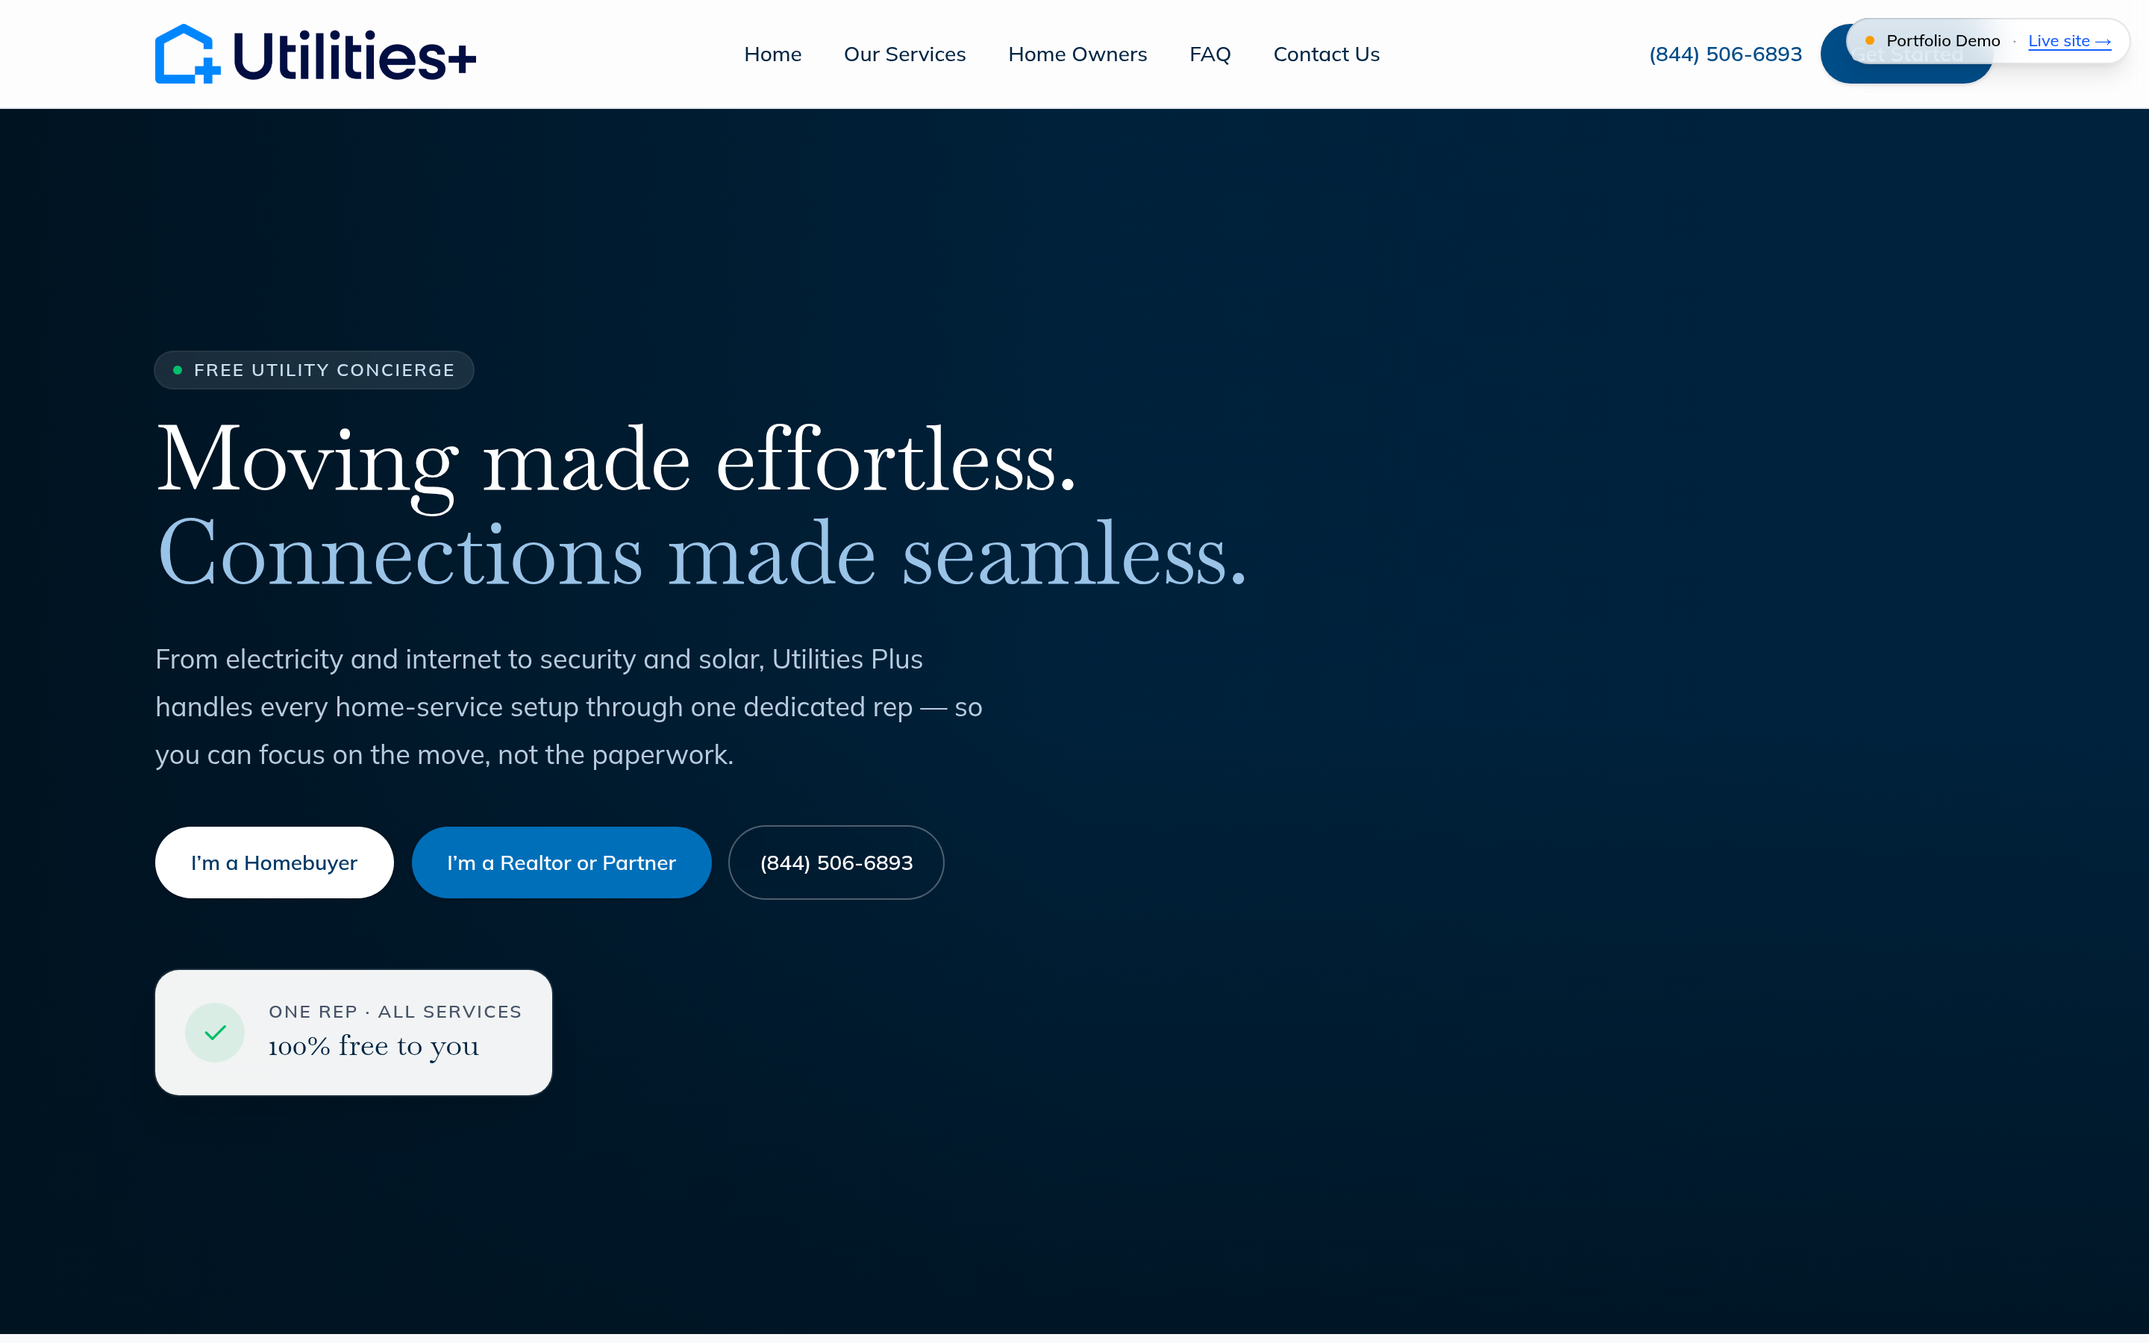
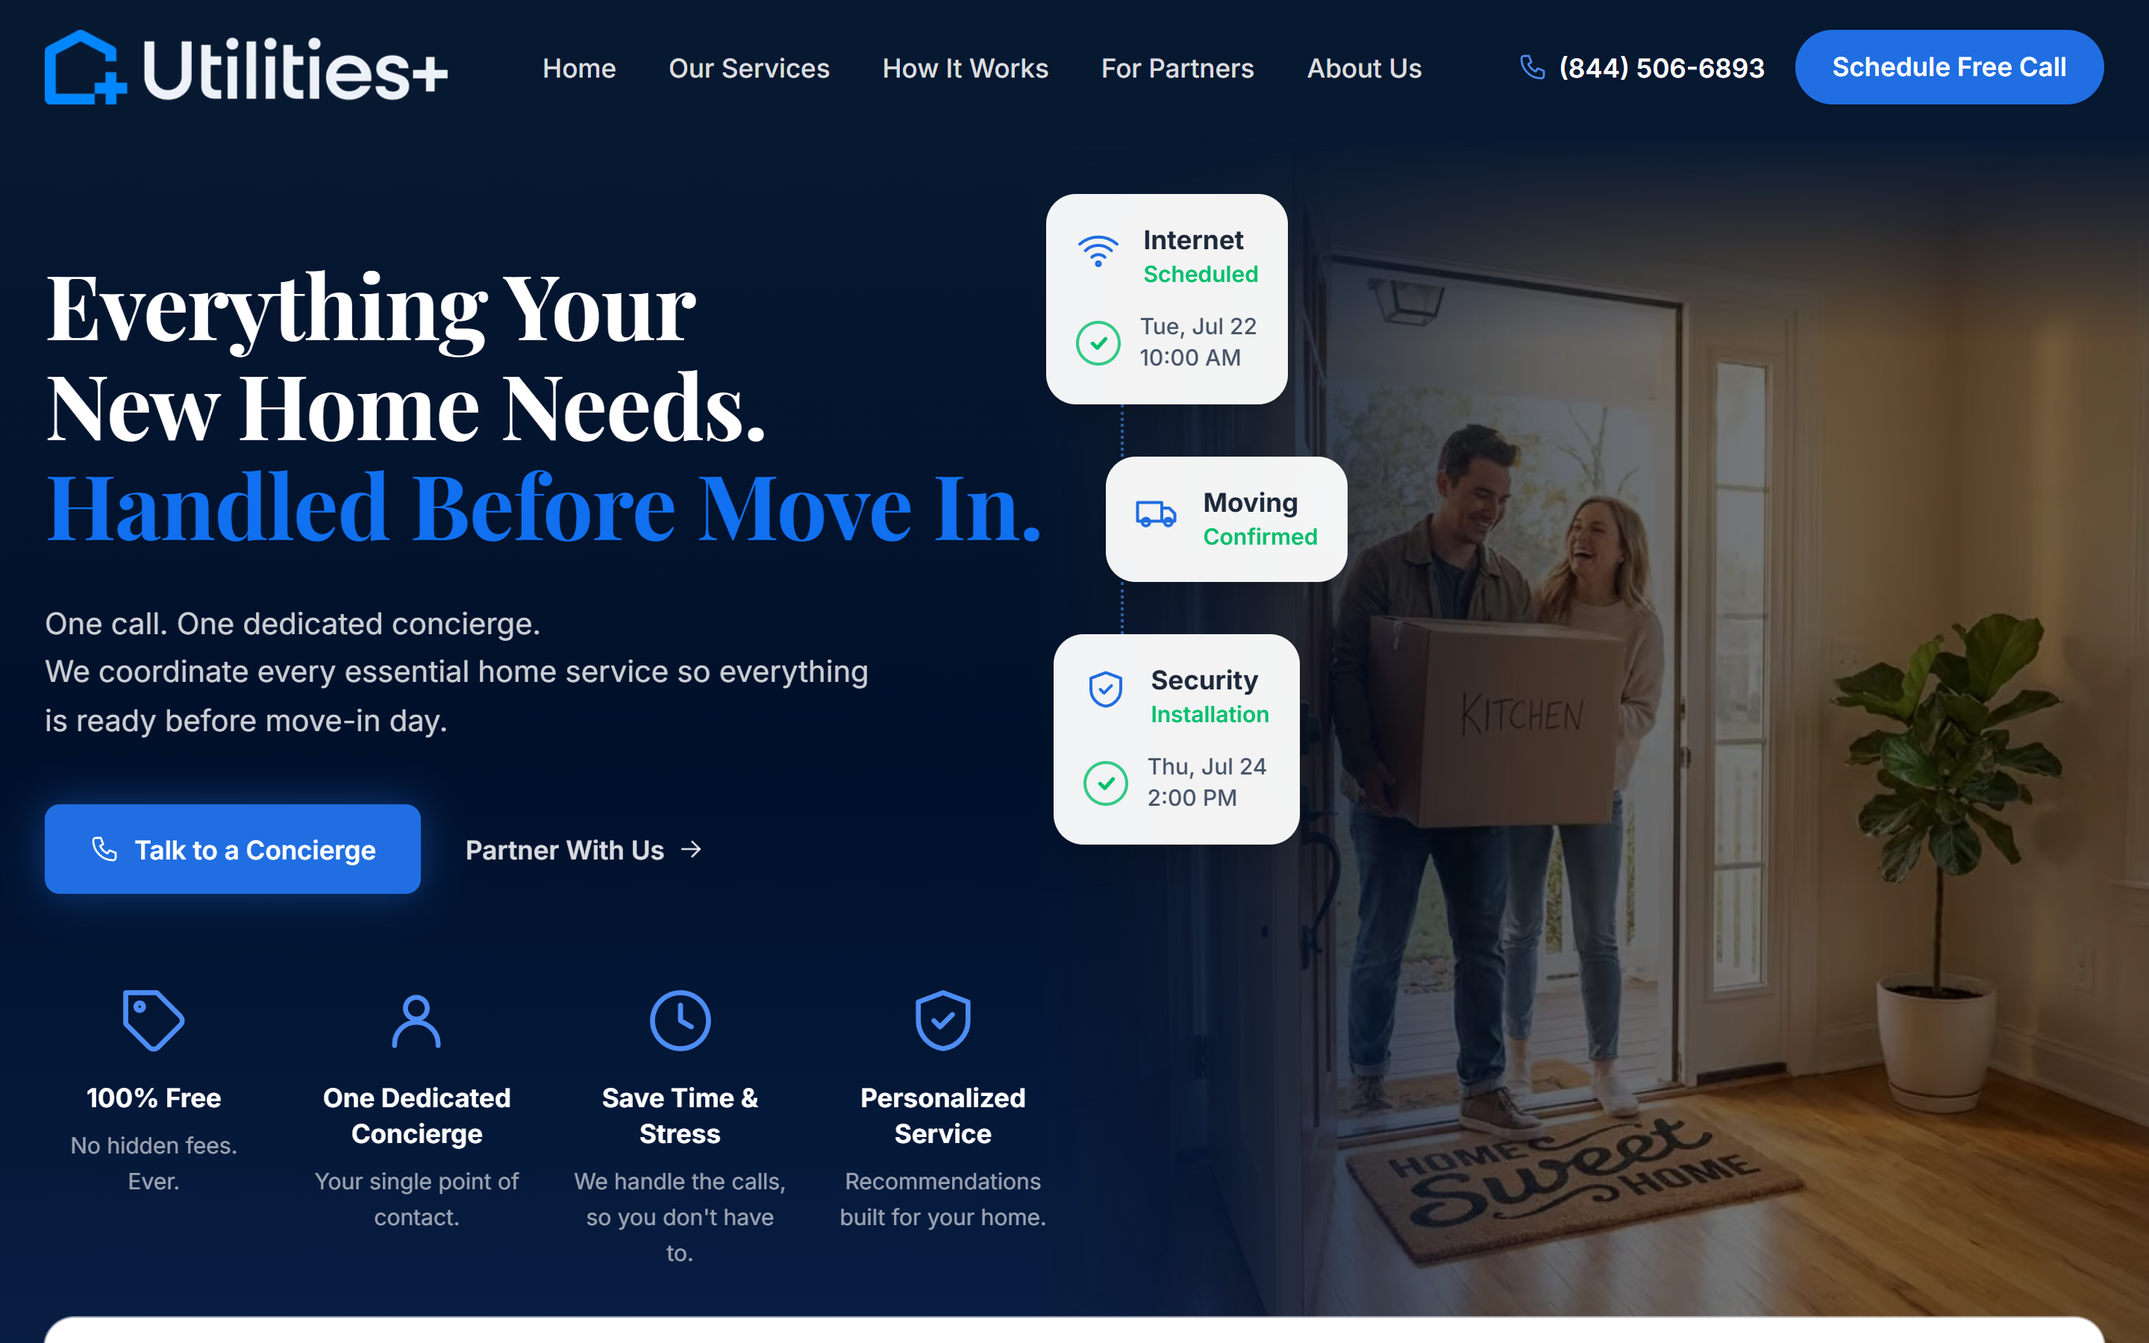
Utilities Plus points at the live site; nautiDAWGS is a client
Utilities Plus had moved past its frozen showcase and the entry had gone
stale in a way that mattered: it described a Pexels hero video that no
longer exists, a typography stack that was replaced, a service list with
solar and waste instead of water filtration and moving, and 22 WordPress
routes that are now a different set. The showcase still serves the old
"Moving Made Effortless" headline; the live site leads with "Handled
Before Move In".

Rewritten against the live site and the repo rather than patched. The
substantive change is what the case study never mentioned: it now has a
full control panel, so the client edits page copy, FAQs, providers and
media, works leads in an inbox, and reads their own analytics. That is
the point of the project and it was missing from the write-up.

nautiDAWGS moves from "In Progress" to "Client" — its domain cutover
completed, so the outcome no longer says it is pending.

Thumbnail recaptured from the live site and moved off Microlink onto the
guarded capture path, asserting the current headline so a shot of the
superseded showcase design cannot ship. Utilities Plus was also missing
from llms.txt entirely.

diff --git a/lib/portfolio.ts b/lib/portfolio.ts
@@ -361,11 +361,11 @@ export const portfolio: PortfolioItem[] = [
   {
     slug: "utilities-plus",
     name: "Utilities Plus",
-    url: "https://utilities-plus-showcase.vercel.app",
+    url: "https://utilities-plus.com",
     tagline: "Free utility concierge — Houston, TX",
     description:
-      "Full WordPress → Next.js 16 rebuild for a utility concierge service that sets up electricity, internet, security, gas, water, solar, waste, home warranty, and insurance referrals through one dedicated rep. Pexels hero video, deep-navy brand theme, custom SVG icon system across services and partner-types, FAQ with FAQPage schema, Google Maps embed on contact, and the full Mako security + AI-search baseline. Shown as shipped on a frozen showcase fork.",
-    tags: ["Next.js 16", "Tailwind v4", "WP Migration", "Local SEO", "FAQ Schema"],
+      "A WordPress rebuild that kept going. Utilities Plus coordinates electricity, internet and TV, smart security, gas and water, water filtration, moving services, home warranty and insurance referrals for people about to move house — one rep, no charge to the homeowner. It now runs on its own control panel: the office edits page copy, FAQs, providers and media, works the leads, and reads its own traffic without touching a developer.",
+    tags: ["Next.js", "Drizzle", "CMS + control panel", "WP Migration", "Local SEO"],
     status: "Client",
     year: "2026",
     accent: "blue",
@@ -373,57 +373,58 @@ export const portfolio: PortfolioItem[] = [
     tier: "client-build",
     caseStudy: {
       oneLiner:
-        "Full WordPress → Next.js 16 rebuild for a Houston utility concierge — Pexels hero video, deep-navy brand theme, custom icon system, FAQPage schema, Google Maps on contact, and the complete Mako security + AI-search baseline.",
+        "A Houston utility concierge moved off WordPress and onto a site its own office runs — page copy, FAQs, providers, media, leads and traffic all editable in-house, with no developer in the loop.",
       client: "Utilities Plus · Houston, TX",
-      role: "Design + full-stack build + migration",
-      timeline: "2026 · client build, approved",
+      role: "Design + full-stack build + migration + control panel",
+      timeline: "2026 · live",
       stack: [
-        "Next.js 16",
+        "Next.js",
         "React 19",
         "Tailwind v4",
+        "Drizzle ORM",
+        "Postgres",
+        "iron-session + TOTP",
+        "Turnstile",
         "Vercel",
-        "Pexels (hero video)",
-        "Google Maps Embed",
-        "JSON-LD (Organization, WebSite, BlogPosting, FAQPage)",
       ],
-      viewUrl: "https://utilities-plus-showcase.vercel.app",
-      viewLabel: "View frozen showcase",
+      viewUrl: "https://utilities-plus.com",
+      viewLabel: "Visit the live site",
       problem:
-        "Utilities Plus is a free utility concierge service in Houston that sets up electricity, internet, security, gas, water, solar, waste, home warranty, and insurance referrals for homebuyers and real-estate professionals through one dedicated rep. Their old site was a stock WordPress / Astra / Elementor build — slow, generic, and indistinguishable from a thousand other home-services templates. The brand was meant to feel premium and trust-first; the site read like a brochure.\n\nThe brief: a custom rebuild that captures the white-glove positioning, makes the eight services feel like one cohesive offering instead of a bullet list, and gives both audiences (homebuyers and real-estate partners) clear paths through the site. AI-search ready. Same security baseline we ship on every Mako property.",
+        "Utilities Plus sets up a household's services before move-in day — electricity, internet and TV, smart security, gas and water, water filtration, moving services, home warranty, insurance referrals — through one rep, at no charge to the homeowner, earning from the providers instead. The old site was a stock WordPress build on Astra and Elementor: slow, generic, and indistinguishable from a thousand other home-services templates.\n\nTwo audiences use the site for opposite reasons. A homeowner arrives stressed and three weeks from a move, wanting to know this is real and free. A real-estate agent arrives evaluating whether to hand clients over, wanting to know it will not embarrass them. One page cannot serve both, and a bullet list of eight services serves neither.\n\nThe rebuild solved that. What it did not solve was the reason people leave WordPress and then miss it: every copy change, every new FAQ, every provider logo came back to us.",
       approach:
-        "Next.js 16 + Tailwind v4 with the brand palette extracted from a sister-property reference and dialed in across a deep-navy ramp from brand-50 to brand-950. Mulish for body, Baskervville for display headlines, Frank Ruhl Libre as a serif accent for the editorial step-numerals — typography mix that reads premium without overshooting into luxury territory.\n\nThe homepage hero pairs a looping Pexels family-moving clip (3.95 MB at 720p, autoplay-muted-loop-playsinline, hidden under prefers-reduced-motion) with a brand-navy gradient overlay so the headline stays sharp. A custom SVG icon library covers all eight services plus the How-It-Works steps, the Why-Use-Us benefits grid, and the Who-We-Partner-With grid — every section has its own visual rhythm without leaning on a third-party icon font.\n\nThe FAQ converts the original blog topics into 29 grouped questions across 5 categories with FAQPage JSON-LD for Google rich results. Google Maps keyless embed on the contact page sits under the office hours, with CSP frame-src updated to allow Google's iframe domains. Full Mako security baseline: HSTS preload, X-Frame, X-Content nosniff, Referrer-Policy, locked Permissions-Policy, full CSP with frame-ancestors none. 301 redirects from every old WordPress slug.",
+        "The homepage answers the homeowner in one line — everything your new home needs, handled before move in — and then shows it rather than describing it. Floating beside the photograph are the cards a customer would actually receive: internet scheduled Tuesday at ten, movers confirmed, security installation Thursday at two. That is the product. Everything below it is the explanation.\n\nThe order is deliberate. How it works comes first, the eight services second, the partner pitch third, because a stressed homeowner three weeks from a move needs to understand the process before a menu means anything. \"100% free, no hidden fees, ever\" sits in the benefits row, since the first question anyone asks about a free concierge is where the catch is. Agents get their own route into the same operation instead of a paragraph aimed at somebody else. Inter for reading, Playfair Display for headlines, with the decorative face deliberately kept off the critical render path so the type it sets is not what people wait for.\n\nProvider names do the work that adjectives usually get asked to do. Reliant, Xfinity, Frontier, ADT, Vivint — a homeowner recognises the companies and stops wondering whether this is a real service. That is worth more than another sentence about being trusted.\n\nThen the site was given a back office. Page copy, FAQs, providers and media all moved into Postgres behind an admin panel, so the content on the public pages is data the client owns rather than markup only a developer can reach.",
       shipped: [
         {
-          title: "Full WordPress → Next.js 16 migration",
-          body: "Astra + Elementor source replaced with hand-written Next.js 16 components. 22 routes generating cleanly — every WP page rebuilt, every image migrated to public/images, every blog post re-stubbed with original copy.",
+          title: "Off WordPress, onto their own stack",
+          body: "The Astra and Elementor build replaced with hand-written components, every old slug redirected, and the full Mako baseline underneath: HSTS preload, a real CSP, locked Permissions-Policy, no server fingerprint, sitemap, robots and llms.txt.",
         },
         {
-          title: "Pexels family-moving hero video",
-          body: "3.95 MB 720p mp4 self-hosted, autoplay-muted-loop-playsinline, brand-navy gradient overlay for legibility, Cache-Control immutable. Falls back to a poster JPG under prefers-reduced-motion.",
+          title: "A content panel the office actually uses",
+          body: "Page copy, FAQs, providers and a media library all live in Postgres and are edited in the admin. The public pages read from the same rows, so a change is live when they save it — the thing WordPress was doing for them, without WordPress.",
         },
         {
-          title: "Custom icon system (24+ SVGs)",
-          body: "Hand-written stroke-based icons covering services (plug, wifi, shield, droplet, sun, trash, warranty, umbrella), how-it-works steps, why-use benefits, and partner-types. One ServiceIcon component, no icon font dependency.",
+          title: "Leads worked in an inbox, not an inbox",
+          body: "Submissions land in a database and are read, opened and tracked in the panel rather than scattered across a mailbox. Turnstile on the forms, rate limiting on the endpoints, and the record written before the notification is attempted so a mail failure cannot lose an enquiry.",
         },
         {
-          title: "FAQ with FAQPage JSON-LD",
-          body: "29 questions across 5 groups (About, Before move, Choosing plans, Day-of, Real-estate pros) using native details/summary accordion. Schema-tagged for Google rich results without third-party widgets.",
+          title: "Their own analytics, not a third party's",
+          body: "Page views, events and Core Web Vitals collected in-house and read in the panel, with background-tab and bfcache samples dropped rather than capped so the vitals reflect what visitors experienced. Connected to the Mako control panel, where it reported 1,047 views and 839 sessions on the day it was wired up.",
         },
         {
-          title: "Google Maps embed on contact",
-          body: "Keyless Google Maps iframe lazy-loaded under office hours with a Get Directions link. CSP frame-src updated to allow www.google.com and maps.google.com without weakening the rest of the policy.",
+          title: "Real providers, named",
+          body: "Reliant, Xfinity, Frontier, ADT and Vivint appear as the companies behind the service, managed as records rather than hardcoded logos. The fastest way to prove a free concierge is legitimate is to show whose services it connects.",
         },
         {
-          title: "Mako security + SEO baseline",
-          body: "HSTS preload, full CSP with frame-ancestors none, locked Permissions-Policy, poweredByHeader off, immutable cache on /images and /videos. Sitemap, robots, llms.txt, Organization + WebSite + BlogPosting + FAQPage JSON-LD, OG/Twitter cards, 301s from every old WP slug.",
+          title: "Two audiences, two routes",
+          body: "Homeowners get how-it-works and the eight services; real-estate agents get a partner track of their own. Fifteen questions grouped by who is asking, in ARIA-correct accordions with FAQPage schema, plus Organization, PostalAddress and WebSite structured data across the site.",
         },
         {
-          title: "Frozen showcase fork",
-          body: "utilities-plus-showcase.vercel.app with noindex + a Portfolio Demo pill. The portfolio version stays canonical even as the live site evolves under client ownership.",
+          title: "Admin nobody can walk into",
+          body: "iron-session with TOTP two-factor, recovery codes, rate-limited attempts, and a bot check that fails open rather than locking a real person out of their own panel — a bug found and fixed after a blocked check did exactly that.",
         },
       ],
       outcome:
-        "Approved by the client — rebuilt to their own final mockups, page for page. Production rollout is underway on their domain, and the showcase stays locked as the canonical 'as we built it' version.",
+        "Live at utilities-plus.com and no longer dependent on us for day-to-day changes. The client edits their own copy, FAQs, providers and media, works their own leads, and reads their own traffic; error capture and the fleet control panel keep the parts they should not have to think about visible on our side.",
     },
   },
   {
@@ -564,7 +565,7 @@ export const portfolio: PortfolioItem[] = [
     description:
       "Full rebuild of a family-owned dog boat ladder brand from Wix to an AI-native storefront: a cinematic AI hero video anchored to real product photos, Remmy the product-trained chat assistant (MakoChat), a Claude-vision Fit Check that reads customers' boat photos with a human always confirming, a dedicated waterfowl-hunter landing page, drag-and-drop photo uploads, and Stripe checkout — with the old site's search rankings preserved. Shown as shipped on a frozen showcase fork.",
     tags: ["Next.js 16", "AI Video Hero", "Claude Vision", "MakoChat", "E-commerce"],
-    status: "In Progress",
+    status: "Client",
     year: "2026",
     accent: "blue",
     screenshot: "/portfolio/nautidawgs.png",
@@ -618,7 +619,7 @@ export const portfolio: PortfolioItem[] = [
         },
       ],
       outcome:
-        "First pass delivered and live on the build URL for client review — hero film, chat assistant, fit checks, hunter page, and commerce all working. The frozen showcase locks the as-shipped version for the portfolio while the client site moves toward its domain cutover.",
+        "Live on nautidawgs.com — the Wix store is retired and the domain now serves the new build, with every indexed slug from the old site redirected rather than dropped. Hero film, chat assistant, fit checks, hunter page and Stripe checkout all shipped. The frozen showcase locks the as-shipped version for the portfolio while the client's own site evolves under their ownership.",
     },
   },
   {

diff --git a/app/llms.txt/route.ts b/app/llms.txt/route.ts
@@ -52,6 +52,7 @@ compressing 6-week timelines into 2 without cutting corners.
 - Bulldog Security Service (https://bulldogsecurityservice.com) — multi-state ADT-partner residential security (client)
 - Bulldog Water (https://bulldogh2o.com) — home water treatment across Houston, Austin, Dallas and Fort Worth: authorized HomeWater dealer, free in-home water test as the lead offer, four-category system catalog, and its own control panel for leads, content and users (client — a Bulldog Security Services, LLC company)
 - BDS Lighting (https://bdslighting.com) — permanent architectural and holiday LED lighting for the Houston metro: authorized Trimlight dealer, eight product categories, seven service-area cities, and the same self-service control panel (client — Bulldog Signature Lighting, LLC, a Bulldog company)
+- Utilities Plus (https://utilities-plus.com) — Houston, TX utility concierge, free to the homeowner: coordinates electricity, internet and TV, smart security, gas and water, water filtration, moving, home warranty and insurance referrals before move-in day. WordPress rebuild with a full control panel — the client edits page copy, FAQs, providers and media, works leads, and reads their own traffic (client)
 - AXYS Industrial Solutions (https://axyscorp.com) — Houston, TX chemical & refining secondary-stream recovery, full WordPress → Next.js rebuild (client)
 - Bishopbend Insurance Services (https://bishopbend.com) — independent insurance agency licensed in 33+ states, custom build with client portal + admin CRM (client)
 - nautiDAWGS (https://www.nautidawgs.com) — family-owned dog boat ladder brand: AI cinematic hero, product-trained chat assistant, Claude-vision fit checks, Stripe commerce (client)
